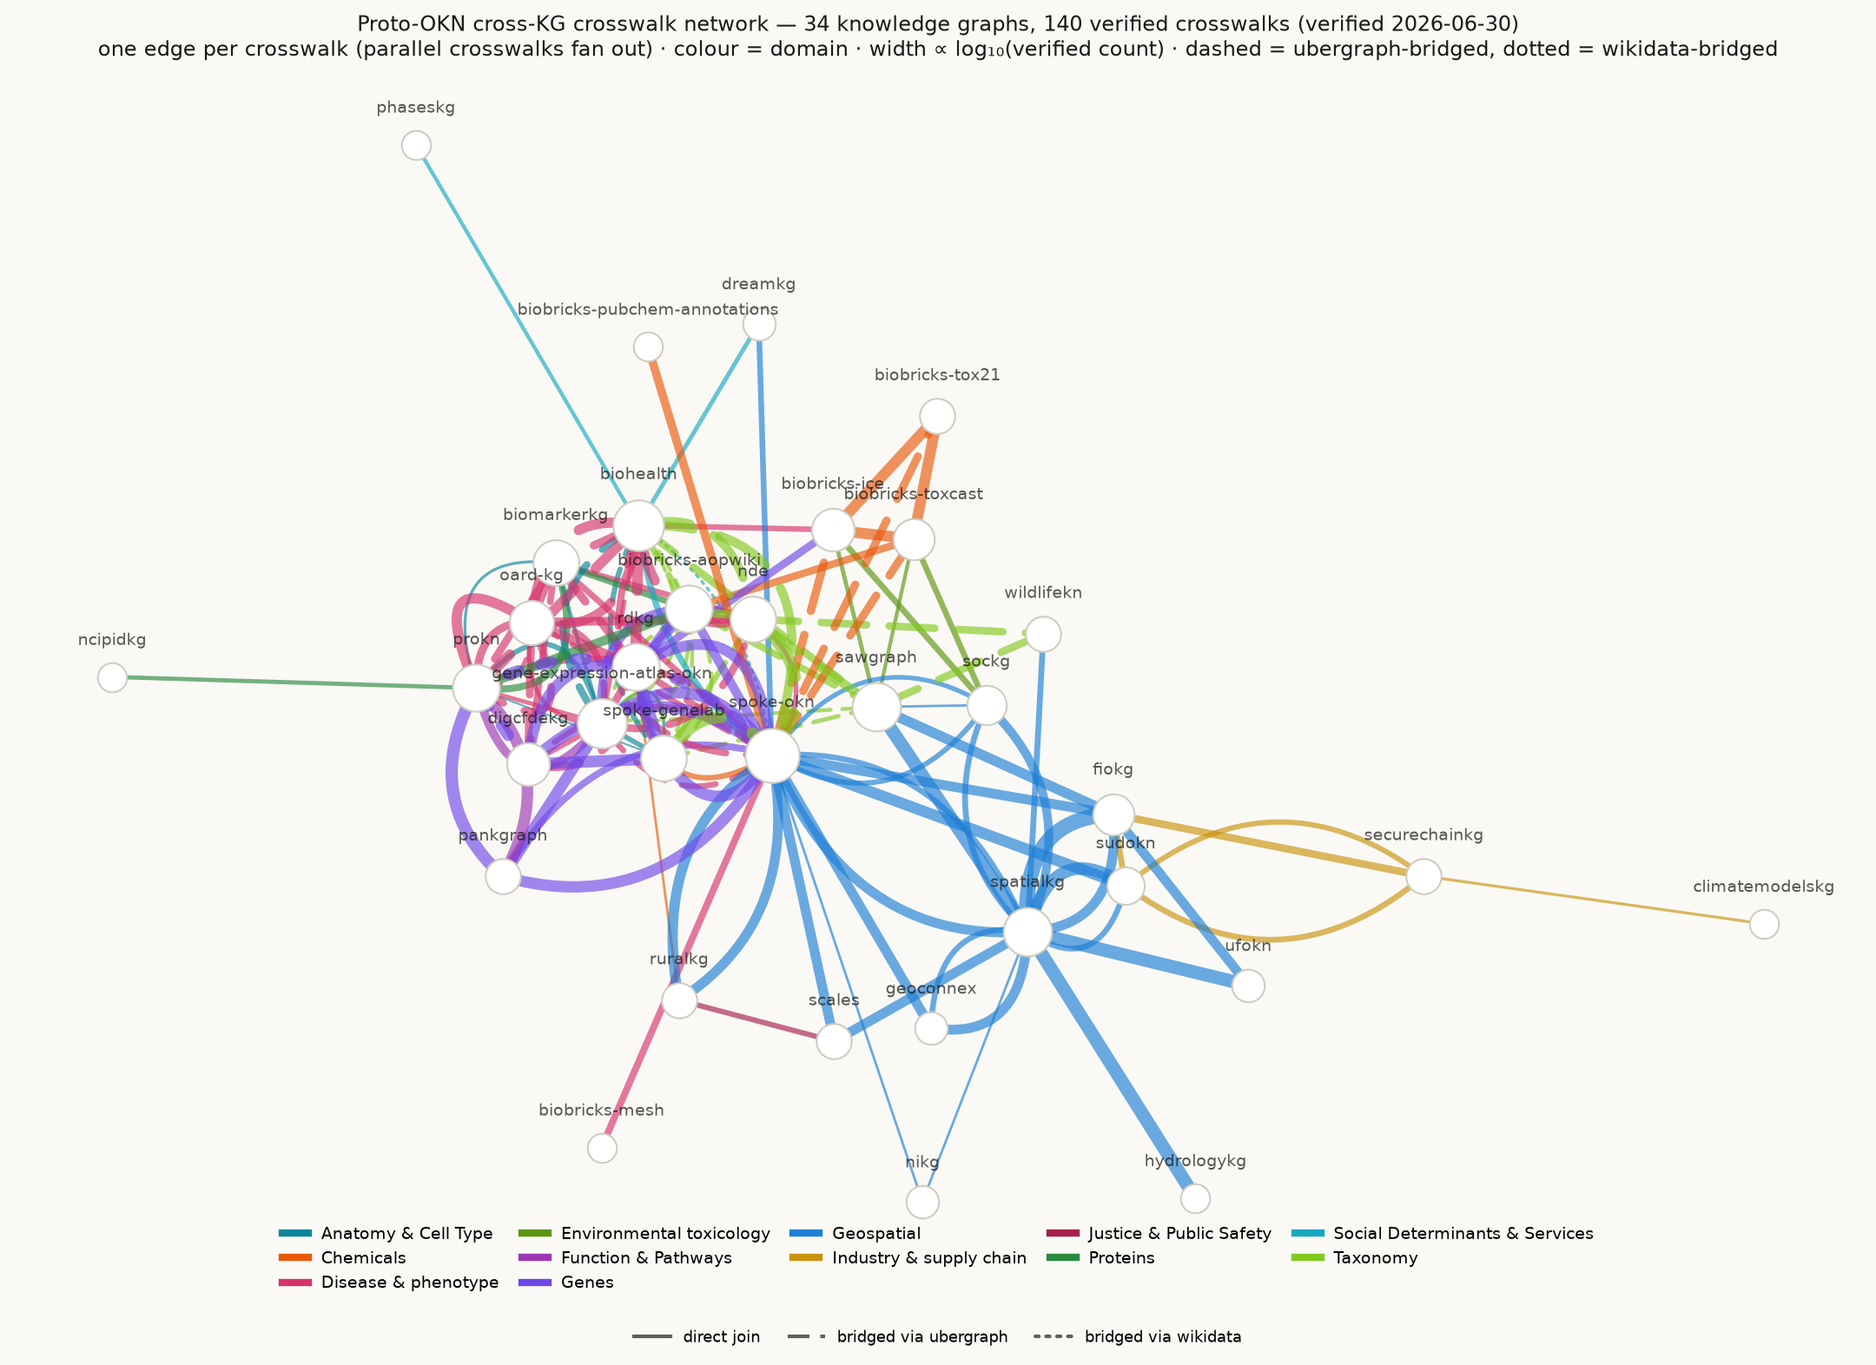
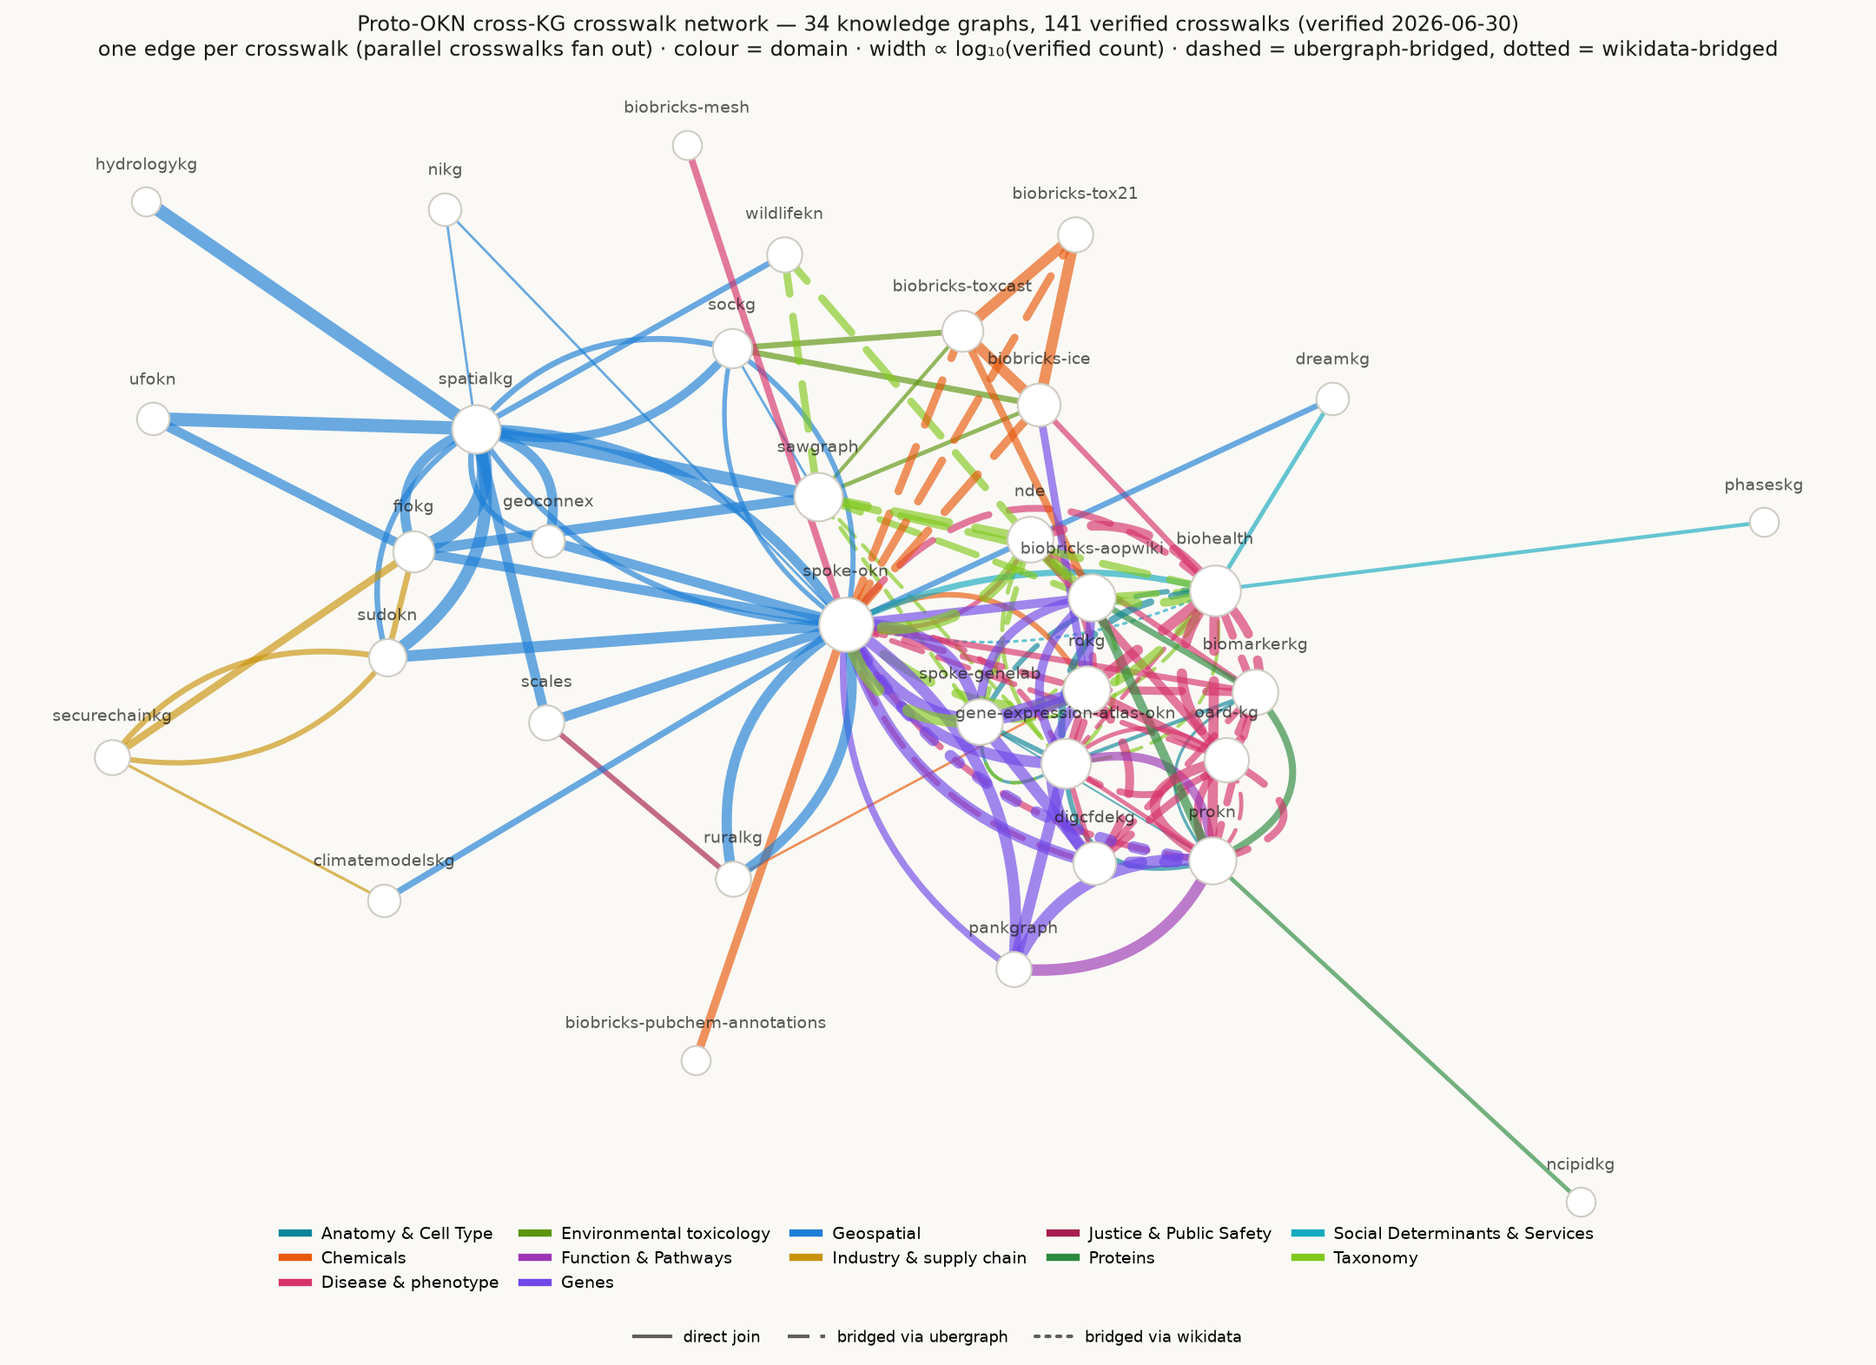
feat(crosswalks): add spoke-okn×climatemodelskg GeoNames crosswalk (GN1)
Deeper dive found a new cross-domain geography link: climatemodelskg
City/Country_Subdivision nodes carry a GeoNames id (cm:geonameid) that
spoke-okn also tags on its schema:AdministrativeArea nodes (spoke:code) —
106 shared places (Pristina, George Town, Aitutaki…), id + name identical
on both sides. This connects climate-model output to spoke-okn's
biomedical/environmental/SDoH geography and gives climatemodelskg its
first geographic crosswalk (previously island for its geography axis;
supersede that non-join note). Map the new GeoNames shared-key to
Geospatial; count 140 -> 141 (34 graphs unchanged); regenerate inventory
+ network figure. Add 2 example transcripts (GEO30) validated on the
GeoNames standard; example count 280 -> 282.

diff --git a/docs/crosswalks/crosswalk-network.html b/docs/crosswalks/crosswalk-network.html
@@ -43,7 +43,7 @@
 <body>
 <header>
   <h1>Proto-OKN cross-KG crosswalk network</h1>
-  <p>34 knowledge graphs, 140 verified crosswalks (verified 2026-06-30). One edge per crosswalk &mdash; parallel crosswalks between a pair fan out as arcs · color = data domain · width &#8733; log&#8321;&#8320;(verified count).</p>
+  <p>34 knowledge graphs, 141 verified crosswalks (verified 2026-06-30). One edge per crosswalk &mdash; parallel crosswalks between a pair fan out as arcs · color = data domain · width &#8733; log&#8321;&#8320;(verified count).</p>
   <p class="tip">&#9654; <b>Hover</b> a node or edge for detail · <b>drag</b> to rearrange · <b>scroll</b> to zoom · <b>double-click</b> a node to unpin it.<br>&#9654; <b>Click a legend item</b> &mdash; a domain (e.g. <b>Chemicals</b>) or a line style (e.g. <b>via ubergraph</b>) &mdash; to toggle those edges.</p>
 </header>
 <div class="bar" id="legend"></div>
@@ -153,6 +153,7 @@ const R=[
 ["G",["digcfdekg","prokn"],20783,"Entrez→HGNC (wikidata)"],
 ["G",["prokn","spoke-okn"],16298,"HGNC→Entrez (wikidata)"],
 
+["S",["climatemodelskg","spoke-okn"],106,"GeoNames"],
 ["S",["sockg","spatialkg"],62,"KWG_county"],
 ["S",["fiokg","sawgraph"],4712,"S2_L13"],
 ["S",["fiokg","spatialkg"],681045,"S2_L13"],

diff --git a/src/mcp_okn/crosswalks.py b/src/mcp_okn/crosswalks.py
@@ -153,6 +153,7 @@ _DOMAIN_BY_SHARED_KEY: dict[str, str] = {
     "state_FIPS": "Geospatial",
     "KWG_county": "Geospatial",
     "ZIP5": "Geospatial",
+    "GeoNames": "Geospatial",
     "NAICS": "Industry & supply chain",
     "SUDOKN_industry_sector": "Industry & supply chain",
     "GO": "Function & Pathways",

diff --git a/docs/crosswalks/crosswalks_example.md b/docs/crosswalks/crosswalks_example.md
@@ -251,6 +251,8 @@ The research questions themselves were generated by the model (claude-opus-4-8):
 | GEO28-Q2 | SUDOKN electroplaters co-located with EPA-regulated 332813 facilities (computed S2) | SUDOKN × FIOKG | S2 Level-13 cell (computed) | [md](crosswalks_examples/geospatial28_q2_sudokn-fiokg_electroplater_colocation_s2.md) |
 | GEO29-Q1 | sockg×sawgraph (direct S2 leaf-to-leaf) — USDA soil-carbon experiment sites sharing an S2 cell with a national US-WQP PFAS water sample (2) | SOCKG × SAWGraph | S2 Level-13 cell | [md](crosswalks_examples/geospatial29_q1_sockg-sawgraph_soc-site-pfas-colocation.md) |
 | GEO29-Q2 | sockg×sawgraph — PFAS analytes screened at the Morris, MN REAP soil-carbon cell (22, all non-detect) | SOCKG × SAWGraph | S2 Level-13 cell | [md](crosswalks_examples/geospatial29_q2_sockg-sawgraph_pfas-analytes-nondetect.md) |
+| GEO30-Q1 | climatemodelskg×spoke-okn (GeoNames) — climate-model reference locations resolved to the same place in spoke-okn's geography (Pristina, George Town, Aitutaki…) | ClimateModelsKG × SPOKE | GeoNames id | [md](crosswalks_examples/geospatial30_q1_climatemodelskg-spokeokn_geonames-places.md) |
+| GEO30-Q2 | climatemodelskg×spoke-okn — 106 of 34,498 climate-model locations shared with spoke-okn's admin-area geography | ClimateModelsKG × SPOKE | GeoNames id | [md](crosswalks_examples/geospatial30_q2_climatemodelskg-spokeokn_shared-locations-coverage.md) |
 
 ## Justice & Public Safety
 
@@ -370,7 +372,7 @@ BioHealthKG's 6 NCBITaxon overlaps (T15–T20) join by **exact scientific-name m
 
 **Question generation.** The research questions were generated by the model (claude-opus-4-8), not hand-authored. For each verified crosswalk, the model inspected the two (or three) graphs' schemas and the shared identifier, then proposed questions that genuinely require the join, and ran and validated each one. The resulting questions are illustrative examples of what each crosswalk supports rather than a curated or exhaustive set.
 
-**Crosswalk selection.** Candidate joins came from the `mcp-okn list_crosswalks` registry (140 hand-verified crosswalks, verified 2026-06-30; the oard-kg×prokn DOID and OMIM-bridge examples were retired after ProKN v0.0.5 migrated its disease cross-references off `rdfs:seeAlso`, the scales×ruralkg NIBRS offense-category crosswalk CJ1 was added 2026-07-01 after the scales entities.csv update populated `fbi:OffenseUCRCode`, and the sockg×sawgraph S2 Level-13 leaf-to-leaf crosswalk H3 was added 2026-07-11). For each pair (or triple) of knowledge graphs, `get_join_strategy` supplied the precomputed join recipe — the shared identifier, the predicate/role on each side, the IRI-normalization rewrite needed to make the two graphs' identifiers literally equal, and a verified non-zero row count. A crosswalk was only written up once a join returned rows that genuinely answered the research question.
+**Crosswalk selection.** Candidate joins came from the `mcp-okn list_crosswalks` registry (141 hand-verified crosswalks, verified 2026-06-30; the oard-kg×prokn DOID and OMIM-bridge examples were retired after ProKN v0.0.5 migrated its disease cross-references off `rdfs:seeAlso`, the scales×ruralkg NIBRS offense-category crosswalk CJ1 was added 2026-07-01 after the scales entities.csv update populated `fbi:OffenseUCRCode`, and the sockg×sawgraph S2 Level-13 leaf-to-leaf crosswalk H3 was added 2026-07-11). For each pair (or triple) of knowledge graphs, `get_join_strategy` supplied the precomputed join recipe — the shared identifier, the predicate/role on each side, the IRI-normalization rewrite needed to make the two graphs' identifiers literally equal, and a verified non-zero row count. A crosswalk was only written up once a join returned rows that genuinely answered the research question.
 
 **Per-question workflow.** Each transcript followed the same sequence: (1) `list_kgs` / `describe_kg` to choose the graphs; (2) `get_schema` on each graph to learn its classes, predicates and property names; (3) `probe_namespaces` where the join key is an ontology term, to confirm which identifier scheme actually populates the predicate (e.g. DOID vs MONDO, Ensembl vs Entrez vs symbol); (4) `get_join_strategy` (falling back to `find_crosswalks` only on an `unknown` result) to fix the bridge; and (5) one or more `sparql_query` calls scoping each graph with `GRAPH <https://purl.org/okn/frink/kg/{shortname}> { … }` so a single query spans multiple named graphs.
 

diff --git a/docs/crosswalks/crosswalks_examples/geospatial30_q1_climatemodelskg-spokeokn_geonames-places.md b/docs/crosswalks/crosswalks_examples/geospatial30_q1_climatemodelskg-spokeokn_geonames-places.md
@@ -1,0 +1,57 @@
+# Climate-model reference locations resolved to the same place in spoke-okn's geography, on GeoNames
+
+- **Date:** 2026-07-11
+- **Model:** claude-opus-4-8
+- **SPARQL endpoint:** https://apps.okn.us/federation/sparql
+
+## Knowledge graphs used
+
+- `climatemodelskg` — <https://purl.org/okn/frink/kg/climatemodelskg>
+- `spoke-okn` — <https://purl.org/okn/frink/kg/spoke-okn>
+
+## Conversation
+
+👤 **User**
+
+Crosswalk: `climatemodelskg` × `spoke-okn` on **GeoNames** (new cross-domain link). The Climate Models KG models its geography as `City` / `Country_Subdivision` nodes, each carrying a bare GeoNames integer id via `climatepub4kg:geonameid`. SPOKE-OKN tags its `schema:AdministrativeArea` geographic entities with the same GeoNames id via `spoke:code`. Inner-join the two literals to link a climate-model location to spoke-okn's geographic entity for the same place.
+
+Research question: which of the reference locations climatemodelskg uses are the same GeoNames places that spoke-okn carries in its geographic layer — i.e. where can climate-model geography and spoke-okn's biomedical/environmental geography be joined by place?
+
+Why the join is required: climatemodelskg is a climate-model KG with no biomedical/environmental content; spoke-okn is a health/environment KG with no climate-model content. Neither uses the other's IRIs. The shared GeoNames id is the only handle that connects a climate-model location to spoke-okn's data for the same place — climatemodelskg's first geographic bridge into the federation (it was previously an island for its geography axis).
+
+---
+
+🧠 **Assistant**
+
+The GeoNames id joins the two graphs' geography directly: a climatemodelskg location resolves to the spoke-okn administrative area for the identical GeoNames place, id and name agreeing on both sides. Every row carries BOTH graphs:
+
+| GeoNames id | climatemodelskg location | spoke-okn AdministrativeArea |
+| --- | --- | --- |
+| 10097360 | Pristina | Pristina |
+| 10096138 | Ferizaj | Ferizaj |
+| 10096859 | Gjakova | Gjakova |
+| 10346796 | George Town | George Town |
+| 11695124 | Aitutaki | Aitutaki |
+| 11205396 | The Valley | The Valley |
+
+**Why it answers the question.** Each row is a place both graphs describe but on different axes: climatemodelskg holds it as a reference location in its climate-model geography (`City`/`Country_Subdivision`, GeoNames id + admin hierarchy), and spoke-okn holds it as a `schema:AdministrativeArea` its biomedical/environmental/SDoH data can attach to — and the shared GeoNames id (with matching name) proves they are the same place. This is exactly the join a climate-health integration needs: a stable place key that carries a climate-model location into spoke-okn's geographic entity, and vice versa. Before this, climatemodelskg's geography joined nothing in the federation.
+
+#### Query 1 — climatemodelskg locations joined to spoke-okn areas on GeoNames
+
+```sparql
+PREFIX cm: <https://climatepub4kg.github.io/ontology#>
+PREFIX spoke: <https://purl.org/okn/frink/kg/spoke-okn/schema/>
+PREFIX rdfs: <http://www.w3.org/2000/01/rdf-schema#>
+SELECT ?geonames ?cmName WHERE {
+  GRAPH <https://purl.org/okn/frink/kg/climatemodelskg> {
+    ?loc cm:geonameid ?geonames ; cm:name ?cmName . }
+  GRAPH <https://purl.org/okn/frink/kg/spoke-okn> {
+    ?area spoke:code ?geonames . }
+} ORDER BY ?cmName LIMIT 20
+```
+
+_Both-graph rows: a climatemodelskg reference location (GeoNames id + name) that is also a spoke-okn `AdministrativeArea` carrying the identical GeoNames code — the named places above are a slice of the result._
+
+## Literature validation
+
+Validated by construction on the authoritative shared standard (GeoNames integer ids) plus the hand-verified crosswalk: each row is an exact shared GeoNames id whose place name is identical in both graphs (climatemodelskg `cm:name` == the spoke-okn area for `spoke:code`), confirming the two refer to the same place. **Validated** (shared GeoNames standard; both-KG rows executed live; id + name agreement).

diff --git a/docs/crosswalks/crosswalks_examples/geospatial30_q2_climatemodelskg-spokeokn_shared-locations-coverage.md b/docs/crosswalks/crosswalks_examples/geospatial30_q2_climatemodelskg-spokeokn_shared-locations-coverage.md
@@ -1,0 +1,50 @@
+# How many climate-model locations does spoke-okn's geography share, on GeoNames
+
+- **Date:** 2026-07-11
+- **Model:** claude-opus-4-8
+- **SPARQL endpoint:** https://apps.okn.us/federation/sparql
+
+## Knowledge graphs used
+
+- `climatemodelskg` — <https://purl.org/okn/frink/kg/climatemodelskg>
+- `spoke-okn` — <https://purl.org/okn/frink/kg/spoke-okn>
+
+## Conversation
+
+👤 **User**
+
+Crosswalk: `climatemodelskg` × `spoke-okn` on **GeoNames**. climatemodelskg carries a GeoNames id on its `City`/`Country_Subdivision` nodes (`cm:geonameid`); spoke-okn carries the same on its `schema:AdministrativeArea` (`spoke:code`).
+
+Research question: across climatemodelskg's full location set, how many places are also in spoke-okn's geography — the size of the joinable overlap between climate-model geography and spoke-okn's health/environment geography?
+
+Why the join is required: it takes both graphs' geographic vocabularies together to quantify where climate-model output and spoke-okn's data can be co-located by place — neither graph answers this alone.
+
+---
+
+🧠 **Assistant**
+
+climatemodelskg carries **34,498 distinct GeoNames locations** (global cities and administrative subdivisions). Inner-joining their GeoNames ids to spoke-okn's `AdministrativeArea` codes:
+
+| metric | value |
+| --- | --- |
+| climatemodelskg distinct GeoNames locations | 34,498 |
+| also present in spoke-okn's geography | **106** |
+
+**Why it answers the question.** 106 GeoNames places are shared between the climate-model geography and spoke-okn's administrative-area layer — the joinable overlap where a climate-model location and spoke-okn's biomedical/environmental/SDoH geography refer to the same place. spoke-okn tags this specific set of admin areas with GeoNames ids (the overlap is bounded by that tagged subset, not by climatemodelskg's global reach), and each match is confirmed by identical place name on both sides (GEO30-Q1). This is the integration surface neither graph exposes alone: a verified place key that bridges climate-model output and spoke-okn's data for 106 shared locations, and gives climatemodelskg its first geographic crosswalk in the federation.
+
+#### Query 2 — the climatemodelskg ↔ spoke-okn GeoNames overlap
+
+```sparql
+PREFIX cm: <https://climatepub4kg.github.io/ontology#>
+PREFIX spoke: <https://purl.org/okn/frink/kg/spoke-okn/schema/>
+SELECT (COUNT(DISTINCT ?g) AS ?n) WHERE {
+  GRAPH <https://purl.org/okn/frink/kg/climatemodelskg> { ?c cm:geonameid ?g . }
+  GRAPH <https://purl.org/okn/frink/kg/spoke-okn> { ?s spoke:code ?g . }
+}
+```
+
+_Returns **106** — climatemodelskg GeoNames locations that are also spoke-okn administrative areas (of 34,498 distinct)._
+
+## Literature validation
+
+Validated by construction on the authoritative shared standard (GeoNames integer ids) plus the hand-verified crosswalk: each match is an exact shared GeoNames id, and the sampled matches agree by place name on both sides. The verified count (106) was reproduced live. **Validated** (shared GeoNames standard; count executed live).

diff --git a/docs/crosswalks/proto-okn-crosswalk-inventory.md b/docs/crosswalks/proto-okn-crosswalk-inventory.md
@@ -18,7 +18,7 @@ list crosswalks with examples
 
 🧠 **Assistant**
 
-Here are all 140 precomputed cross-KG crosswalks (verified through 2026-06-30), grouped by domain. Each shows the knowledge graphs joined, the shared identifier, the verified overlap count, and example questions the join answers.
+Here are all 141 precomputed cross-KG crosswalks (verified through 2026-06-30), grouped by domain. Each shows the knowledge graphs joined, the shared identifier, the verified overlap count, and example questions the join answers.
 
 ## Anatomy & Cell Type
 
@@ -131,6 +131,7 @@ Here are all 140 precomputed cross-KG crosswalks (verified through 2026-06-30), 
 
 | KGs | Shared key | Count | Examples |
 |---|---|---|---|
+| climatemodelskg ↔ spoke-okn | GeoNames | 106 | For a location climatemodelskg holds climate-model output for (by GeoNames id), what biomedical / environmental / SDoH data does spoke-okn attach to that same place?<br><br>How many of climatemodelskg's GeoNames-identified locations are also geographic entities in spoke-okn, joined on the GeoNames place id? |
 | sockg ↔ spatialkg | KWG_county | 62 | Aggregate SOCKG soil-carbon / GHG-flux measurements to the county (FIPS) level and join them to spatialkg's admin-region hierarchy for state-level summaries.<br><br>Which states hold the most SOCKG soil-carbon experiment counties when the 62 counties are rolled up through the spatialkg admin hierarchy? |
 | fiokg ↔ sawgraph | S2_L13 | 4,712 | In Maine, find S2 cells where a sawgraph PFAS sample co-occurs with an EPA FRS facility (fiokg) - especially EPA-PFAS-Facility-typed ones - to relate PFAS detections to nearby potentially-PFAS-handling facilities.<br><br>Across Maine, how many EPA FRS facilities (fiokg) share an S2 Level-13 cell with at least one sawgraph PFAS detection, and which FRS facility types dominate those co-located cells? |
 | fiokg ↔ spatialkg | S2_L13 | 681,045 | Place EPA FRS facilities (fiokg) on the national S2 grid (spatialkg), roll them up to county/state admin regions, and find which facilities share an S2 cell with PFAS samples (sawgraph) or hydrologic features (hydrologykg).<br><br>Which S2 Level-13 cells hold the most EPA FRS facilities (fiokg) nationally, and which county/state do those facility-dense cells roll up to on the spatialkg admin hierarchy? |

diff --git a/README.md b/README.md
@@ -57,7 +57,7 @@ where a question one graph can't answer alone becomes answerable by combining tw
 This section catalogs the verified crosswalks and shows the queries that exercise
 them.
 
-A visual map of the whole network — all 140 crosswalks across 34 graphs, drawn as
+A visual map of the whole network — all 141 crosswalks across 34 graphs, drawn as
 direct KG-to-KG edges (edge width ∝ log of the verified join count). Each crosswalk is
 its own edge, so multiple crosswalks between the same pair of graphs fan out as parallel
 arcs. Identifier-bridged joins (e.g. `DOID↔MONDO` via `ubergraph`, `HGNC→Entrez` via
@@ -77,9 +77,9 @@ geospatial and industrial joins against their authoritative shared standard):
   key, row count, and a one-line note on what each answers. Start here to see which
   graphs connect and on what identifier.
 - **[Cross-KG crosswalk catalog](docs/crosswalks/crosswalks_example.md)** —
-  **280 example questions** drawn from the verified crosswalks — two per crosswalk,
+  **282 example questions** drawn from the verified crosswalks — two per crosswalk,
   except the spoke-genelab×spoke-okn Entrez join, illustrated twice (G10 expression +
-  G17 methylation), for 140 example pairs — across 12 domains (Anatomy & Cell Type, Chemicals, Disease & Phenotype,
+  G17 methylation), for 141 example pairs — across 12 domains (Anatomy & Cell Type, Chemicals, Disease & Phenotype,
   Environmental Toxicology, Function & Pathways, Genes, Geospatial, Industry & Supply
   Chain, Justice & Public Safety, Proteins, Social Determinants & Services, Taxonomy), each with a
   full transcript.
